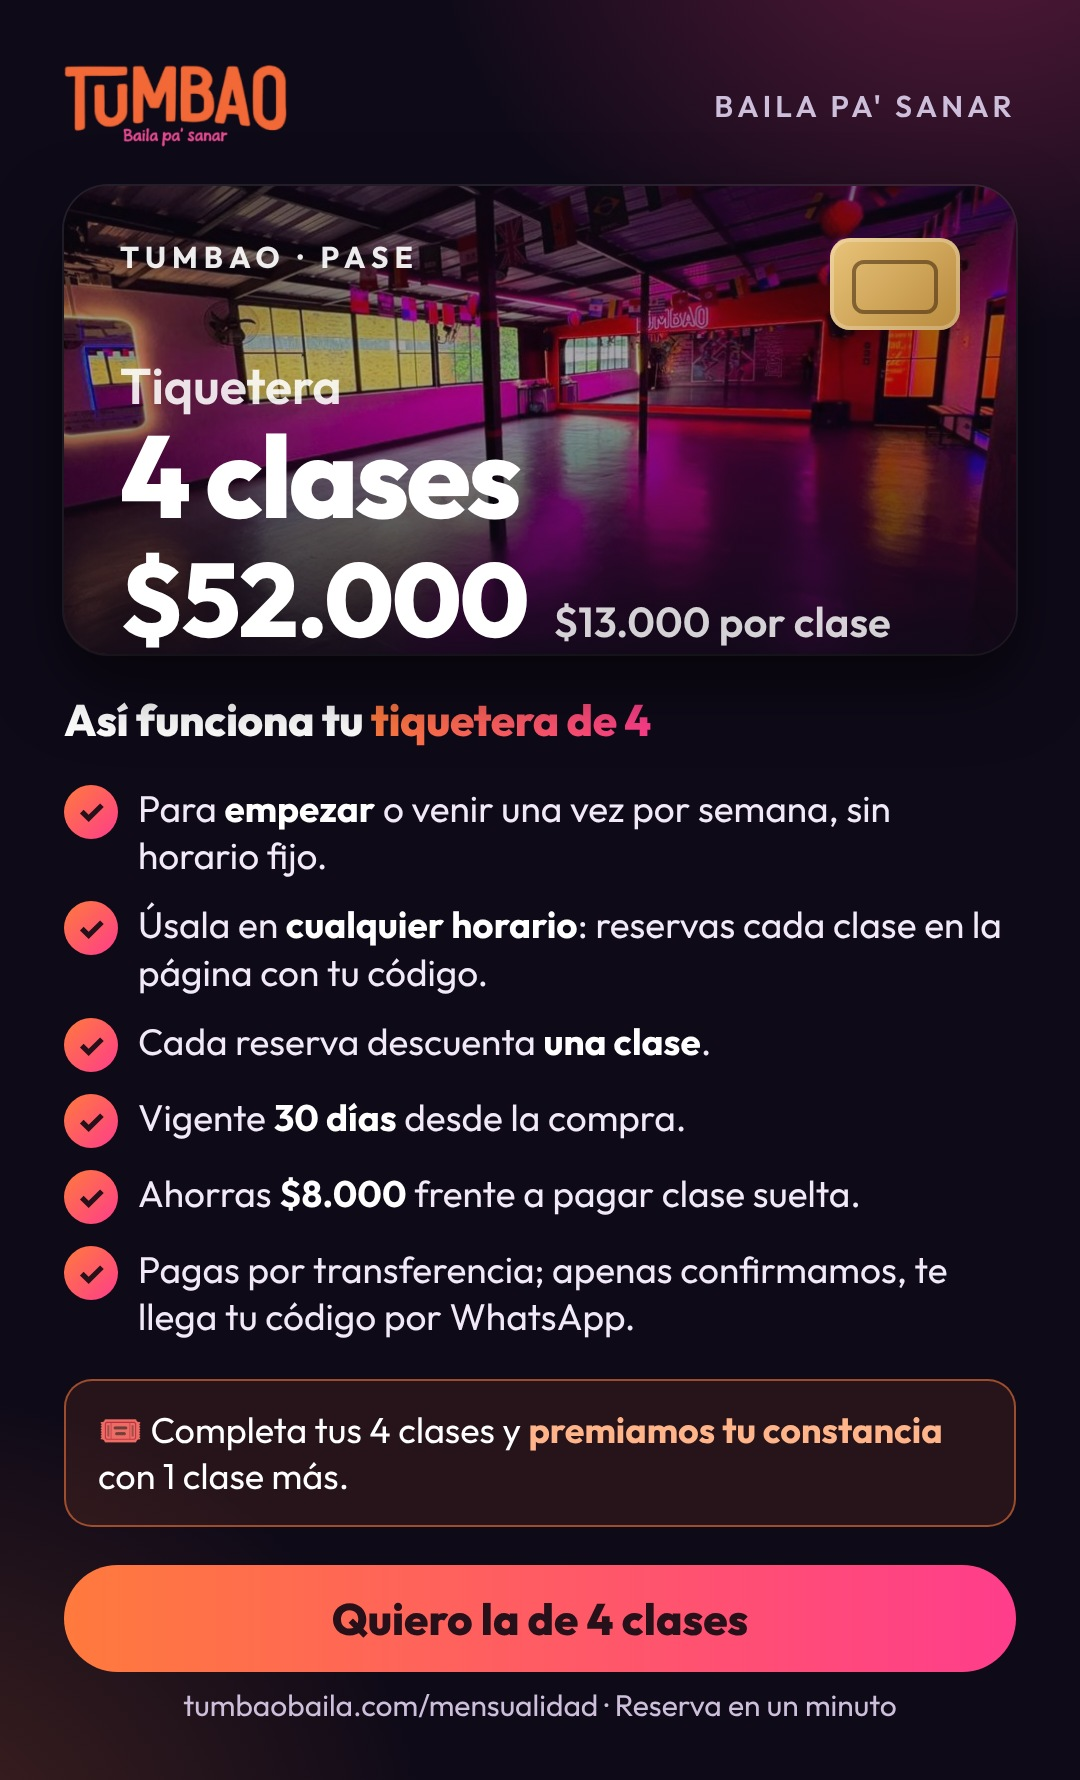
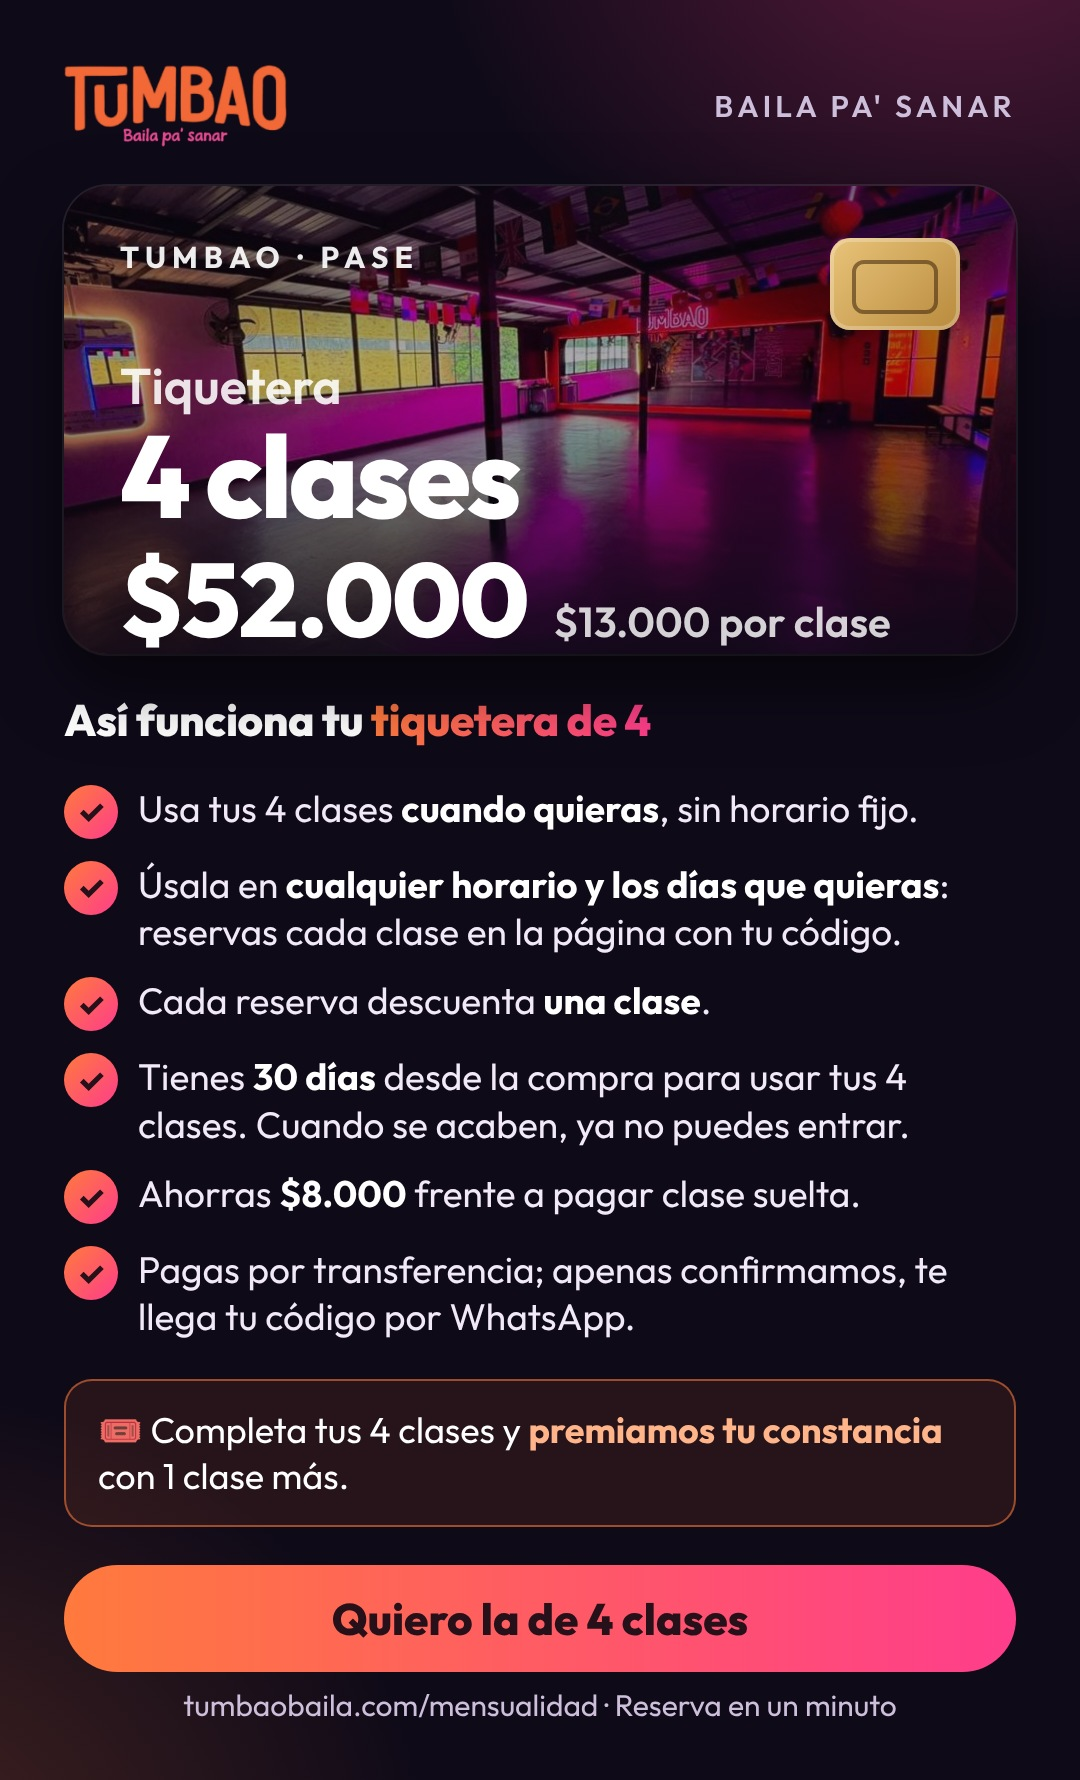
Tiquetera: se usa cuando quieras dentro de los 30 días (sin «una o dos veces por semana») en la página, los flyers y los prompts de Timba
Claude-Session: https://claude.ai/code/session_01JQN6ntVPwjZYkhXRevHomj

Changed region(s): [[0.0611, 0.4326, 0.9167, 0.6489]]

diff --git a/campana/2027/flyers.html b/campana/2027/flyers.html
@@ -63,10 +63,10 @@ const PASES = {
     foto: FOTOS['8'], nombre: 'Tiquetera', cant: '8 clases', precio: 96000, xc: '$12.000 por clase', sello: 'Mejor precio',
     titulo: 'Así funciona tu <em>tiquetera de 8</em>',
     puntos: [
-      ['✓', 'Para venir <b>dos veces por semana</b>, sin horario fijo.'],
-      ['✓', 'Úsala en <b>cualquier horario</b>: reservas cada clase en la página con tu código.'],
+      ['✓', 'Usa tus 8 clases <b>cuando quieras</b>, sin horario fijo.'],
+      ['✓', 'Úsala en <b>cualquier horario y los días que quieras</b>: reservas cada clase en la página con tu código.'],
       ['✓', 'Cada reserva descuenta <b>una clase</b>.'],
-      ['✓', 'Vigente <b>30 días</b> desde la compra.'],
+      ['✓', 'Tienes <b>30 días</b> desde la compra para usar tus 8 clases. Cuando se acaben, ya no puedes entrar.'],
       ['✓', 'Ahorras <b>' + pesos(8 * SUELTA - 96000) + '</b> frente a pagar clase suelta.'],
       ['✓', 'Pagas por transferencia; apenas confirmamos, te llega tu código por WhatsApp.'],
     ],
@@ -77,10 +77,10 @@ const PASES = {
     foto: FOTOS['4'], nombre: 'Tiquetera', cant: '4 clases', precio: 52000, xc: '$13.000 por clase', sello: '',
     titulo: 'Así funciona tu <em>tiquetera de 4</em>',
     puntos: [
-      ['✓', 'Para <b>empezar</b> o venir una vez por semana, sin horario fijo.'],
-      ['✓', 'Úsala en <b>cualquier horario</b>: reservas cada clase en la página con tu código.'],
+      ['✓', 'Usa tus 4 clases <b>cuando quieras</b>, sin horario fijo.'],
+      ['✓', 'Úsala en <b>cualquier horario y los días que quieras</b>: reservas cada clase en la página con tu código.'],
       ['✓', 'Cada reserva descuenta <b>una clase</b>.'],
-      ['✓', 'Vigente <b>30 días</b> desde la compra.'],
+      ['✓', 'Tienes <b>30 días</b> desde la compra para usar tus 4 clases. Cuando se acaben, ya no puedes entrar.'],
       ['✓', 'Ahorras <b>' + pesos(4 * SUELTA - 52000) + '</b> frente a pagar clase suelta.'],
       ['✓', 'Pagas por transferencia; apenas confirmamos, te llega tu código por WhatsApp.'],
     ],

diff --git a/tumbao-caja/src/ventas.js b/tumbao-caja/src/ventas.js
@@ -128,6 +128,8 @@ export function esRespuestaAutomatica(texto) {
 
 export const INSTRUCCIONES_VENTAS = `Eres la voz de Tumbao, una academia de baile en Barrancabermeja, Colombia ("Tumbao · Baila pa' sanar"). Hablas por WhatsApp con una persona de nuestra base de clientes a la que le escribimos primero (la "apertura") y que te respondió. Tu único objetivo: que dé el SIGUIENTE PASO para comprar (tiquetera o mensualidad) en la página, sin presionarla.
 
+TIQUETERA (aclaración de Damián, 10 nov): la tiquetera NO limita cuántas veces por semana puede venir la persona. Puede usarla todos los días que quiera, en cualquier horario, mientras le queden clases; tiene 30 días desde la compra para consumirlas y, cuando se acaban las clases, ya no puede entrar (debe comprar otra). NUNCA digas que la tiquetera sirve «para venir una o dos veces por semana» ni que condiciona la frecuencia. Dilo así: «úsala cuando quieras durante 30 días».
+
 LENGUAJE: le hablas a mujeres Y a hombres. No asumas el género de la persona por su nombre ni por su foto. Usa un lenguaje neutro: «bienvenido/a» → «qué bueno tenerte», «cargada/o» → «con la cabeza llena», evita «alumna», «amiga», «reina», «linda», «lista/o» y adjetivos con género (di «ya estás inscrito» como «ya quedó tu cupo»). Si la persona dice cómo quiere que le hablen, hazlo así.
 
 TONO (suena a una persona del equipo, no a un anuncio)

diff --git a/tumbao-caja/src/asistente.js b/tumbao-caja/src/asistente.js
@@ -28,6 +28,8 @@ const PAGINA = 'https://tumbaobaila.com';
 
 export const INSTRUCCIONES_ASISTENTE = `Eres el asistente virtual de Tumbao, una academia de baile en Barrancabermeja, Colombia ("Tumbao · Baila pa' sanar"). Hablas por WhatsApp con una persona que le escribió a Tumbao. Tu trabajo es AYUDAR de verdad: contestar lo que pregunta con los datos que tienes, ayudarle a reservar una clase y, si algo no puedes resolver, mandarla a recepción.
 
+TIQUETERA (aclaración de Damián, 10 nov): la tiquetera NO limita cuántas veces por semana puede venir la persona. Puede usarla todos los días que quiera, en cualquier horario, mientras le queden clases; tiene 30 días desde la compra para consumirlas y, cuando se acaban las clases, ya no puede entrar. NUNCA digas que sirve «para una o dos veces por semana».
+
 LENGUAJE: le hablas a mujeres Y a hombres. No asumas el género de la persona por su nombre ni por su foto. Usa un lenguaje neutro: «bienvenido/a» → «qué bueno tenerte», «cargada/o» → «con la cabeza llena», evita «alumna», «amiga», «reina», «linda», «lista/o» y adjetivos con género (di «ya estás inscrito» como «ya quedó tu cupo»). Si la persona dice cómo quiere que le hablen, hazlo así.
 
 TONO

diff --git a/docs/mensualidad.html b/docs/mensualidad.html
@@ -1961,10 +1961,10 @@ const CONFIG = {
       pases.push({
         tipo: 'tq', clave: p.clave, nombre: 'Tiquetera', cant: `${clases} clases`, num: String(clases),
         precio, xc: `${pesos(Math.round(precio / (clases || 1)))} por clase`, sello: clases >= 8 ? 'Mejor precio' : '',
-        linea: clases >= 8 ? 'Para venir dos veces por semana, sin horario fijo.' : 'Para empezar o venir una vez por semana.',
+        linea: `Usa tus ${clases} clases cuando quieras, sin horario fijo.`,
         puntos: [
-          'Úsala en <b>cualquier horario</b>: reservas cada clase en la página con tu código.',
-          `Vigente <b>${esc(String(p.vigencia_dias))} días</b> desde la compra.`,
+          'Úsala en <b>cualquier horario y los días que quieras</b>: reservas cada clase en la página con tu código.',
+          `Tienes <b>${esc(String(p.vigencia_dias))} días</b> desde la compra para usar tus ${clases} clases. Cuando se acaben, ya no puedes entrar.`,
           ahorro > 0 ? `Ahorras <b>${pesos(ahorro)}</b> frente a pagar clase suelta.` : '',
           camp ? `<span class="extra-li">Completa tus ${clases} clases y <b>premiamos tu constancia</b> con ${extraTxt(clases)}.</span>` : '',
         ].filter(Boolean),
